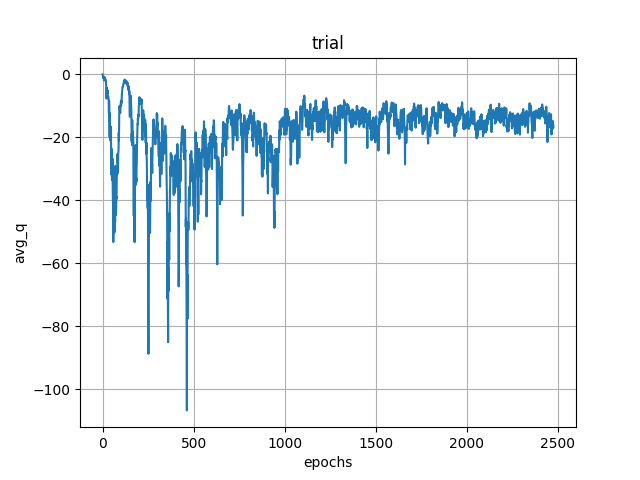
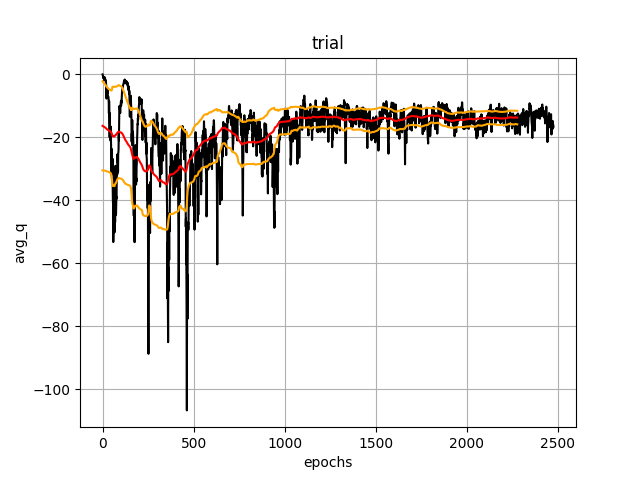
added mean and standard deviation lines to plotting

Changed region(s): [[0.1562, 0.1562, 0.875, 0.8438]]

diff --git a/python/src/tRexPlotter.py b/python/src/tRexPlotter.py
@@ -13,6 +13,7 @@ class Plotter(object):
         self.title = title
         self.content = self.read_in_file()
         self.parameter_dict = self.set_up_parameter_dict(self.parameters_to_plot)
+        self.running_avg = 200
 
     def read_in_file(self):
         with open(self.train_log_file) as log_file:
@@ -53,11 +54,29 @@ class Plotter(object):
         values_array = np.asarray(parameter_values)
         epochs_array = np.arange(values_array.size)
 
+        running_avg_array, epochs_avg_array = self.calculate_running_avg_array(values_array, epochs_array)
+        running_standard_dev_array = self.calculate_running_std_dev(values_array)
+
         fig, ax = plt.subplots()
-        ax.plot(epochs_array, values_array)
+        ax.plot(epochs_array, values_array, color='black')
+        ax.plot(epochs_avg_array, running_avg_array, color='red')
+        ax.plot(epochs_avg_array, running_avg_array + running_standard_dev_array, color='orange')
+        ax.plot(epochs_avg_array, running_avg_array - running_standard_dev_array, color='orange')
         ax.set(xlabel='epochs', ylabel=parameter_name, title=self.title)
         ax.grid()
         fig.savefig(os.path.join(self.folder_to_save_plots, parameter_name + '_plot_' + self.title + '.png'))
+
+    def calculate_running_avg_array(self, values_array, epochs_array):
+        running_avg_array = np.convolve(values_array, np.ones((self.running_avg,))/self.running_avg, mode='valid')
+        epochs_avg_array = epochs_array[:-self.running_avg + 1]
+        return running_avg_array, epochs_avg_array
+
+    def calculate_running_std_dev(self, values_array):
+        running_standard_dev_size = values_array.size - self.running_avg + 1
+        running_standard_dev_array = np.zeros(running_standard_dev_size)
+        for mean_idx in range(running_standard_dev_size):
+            running_standard_dev_array[mean_idx] = np.std(values_array[mean_idx: mean_idx + self.running_avg])
+        return running_standard_dev_array
 
 
 if __name__ == "__main__":
